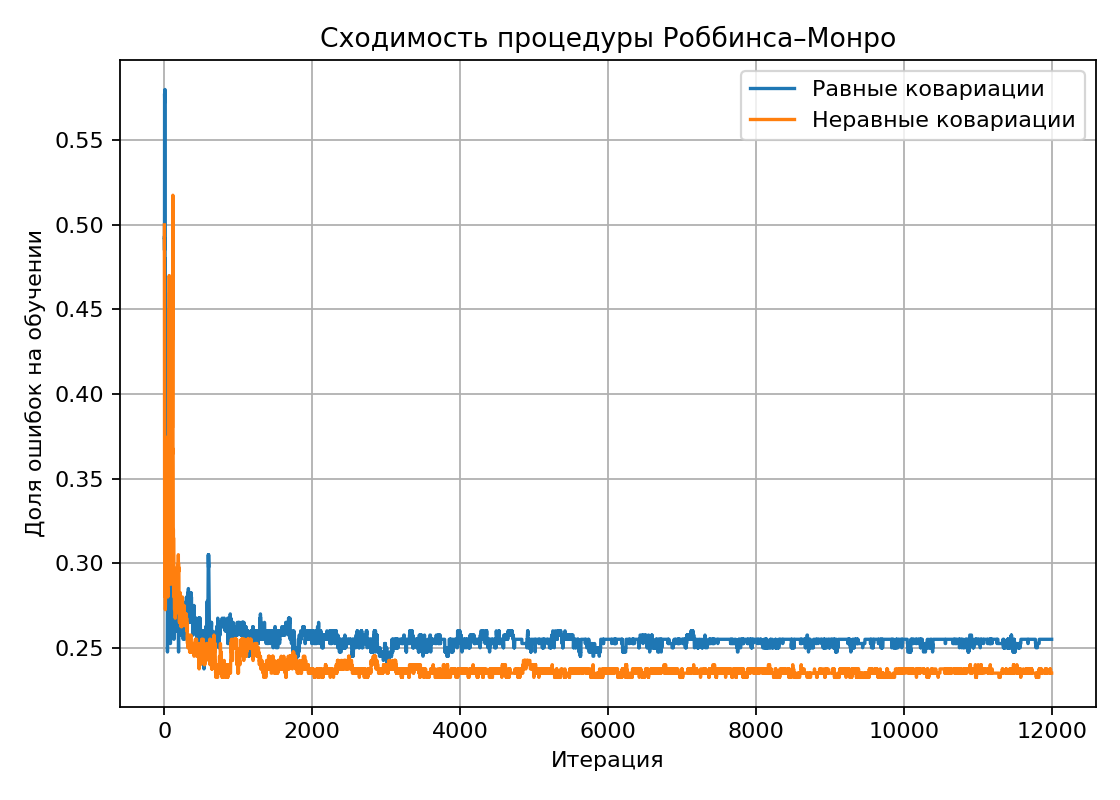
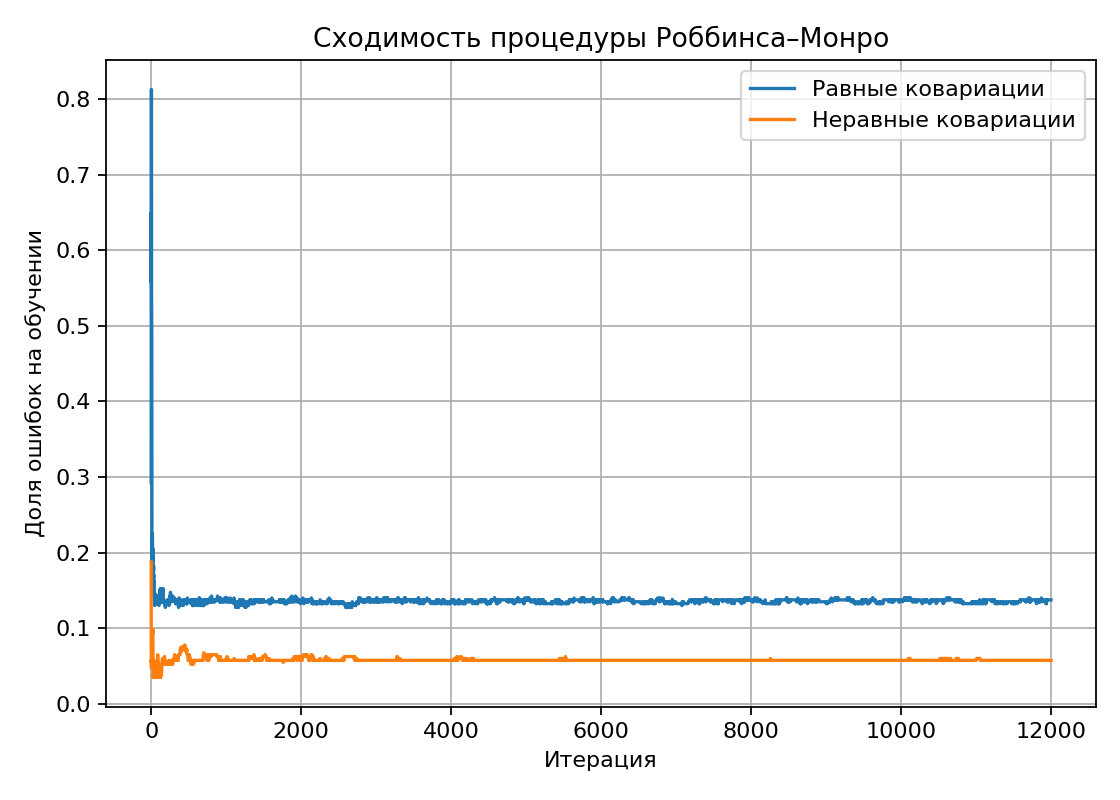
dan upd

diff --git a/lab3.py b/lab3.py
@@ -8,7 +8,7 @@ import numpy as np
 import matplotlib.pyplot as plt
 from numpy.linalg import inv, det
 
-from utility import simulate_normal, estimate_params
+from utility import simulate_normal
 
 OUT = Path(__file__).resolve().parent / 'out'
 OUT.mkdir(parents=True, exist_ok=True)
@@ -19,10 +19,10 @@ rng = np.random.default_rng(7)
 N = 200
 
 M1 = np.array([1.0, 0.0])
-M2 = np.array([1.0, -1.0])
+M2 = np.array([-1.0, -1.0])
 
-B_equal = np.array([[1.0, 0.4],
-                    [0.4, 1.0]])
+B_equal = np.array([[1.0, 0.1],
+                    [0.1, 1.0]])
 B1 = np.array([[1.0, 0.1],
                [0.1, 1.0]])
 B2 = np.array([[1.0, -0.9],
@@ -199,15 +199,11 @@ def lab3(data: Dict[str, np.ndarray]):
     w_b = inv(B_equal) @ (M2 - M1)
     w0_b = -0.5 * (M2 @ inv(B_equal) @ M2 - M1 @ inv(B_equal) @ M1)
 
-    M1_hat, B1_hat = estimate_params(X1)
-    M2_hat, B2_hat = estimate_params(X2)
     w_f_eq, w0_f_eq = fisher_linear_params(M1, B_equal, M2, B_equal)
     w_mse_eq, w0_mse_eq = mse_linear_params(X1, X2)
     w_rm_eq, w0_rm_eq, hist_eq = rm_linear_params(X1, X2, alpha0=0.35, beta=0.7, epochs=30, seed=11)
     err_hist_eq = rm_history_errors(hist_eq, X1, X2)
 
-    M1_hat3, B1_hat3 = estimate_params(X1_3)
-    M2_hat3, B2_hat3 = estimate_params(X2_3)
     w_f_une, w0_f_une = fisher_linear_params(M1, B1, M2, B2)
     w_mse_une, w0_mse_une = mse_linear_params(X1_3, X2_3)
     w_rm_une, w0_rm_une, hist_une = rm_linear_params(X1_3, X2_3, alpha0=0.35, beta=0.7, epochs=30, seed=13)
